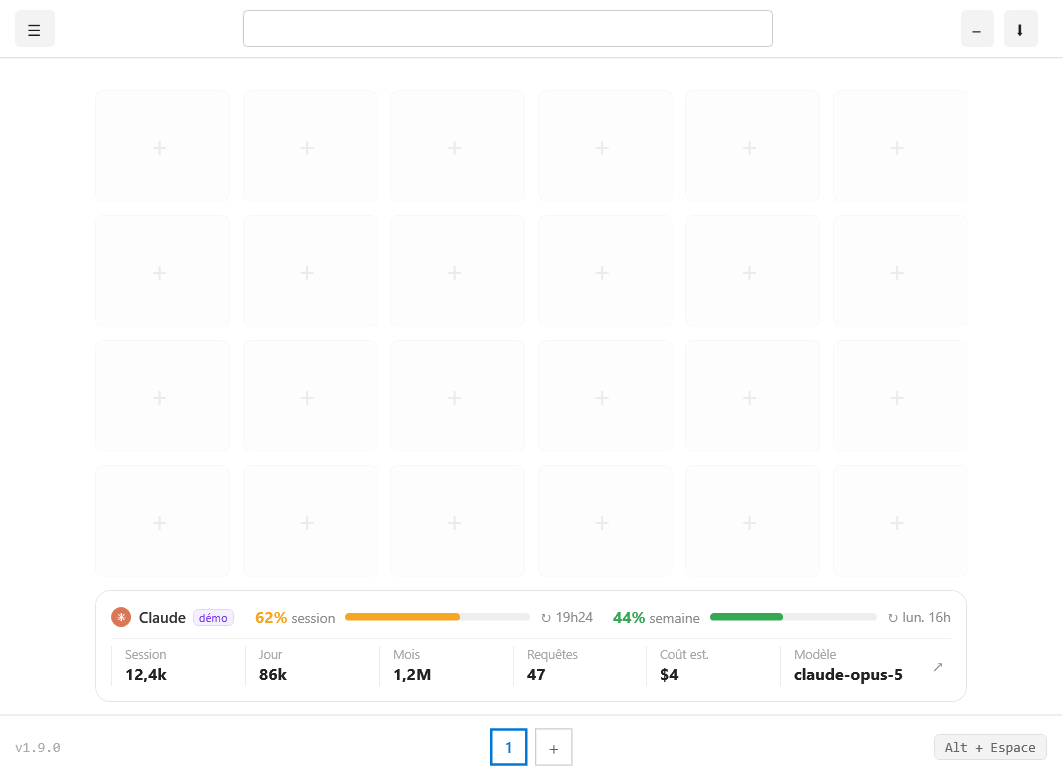
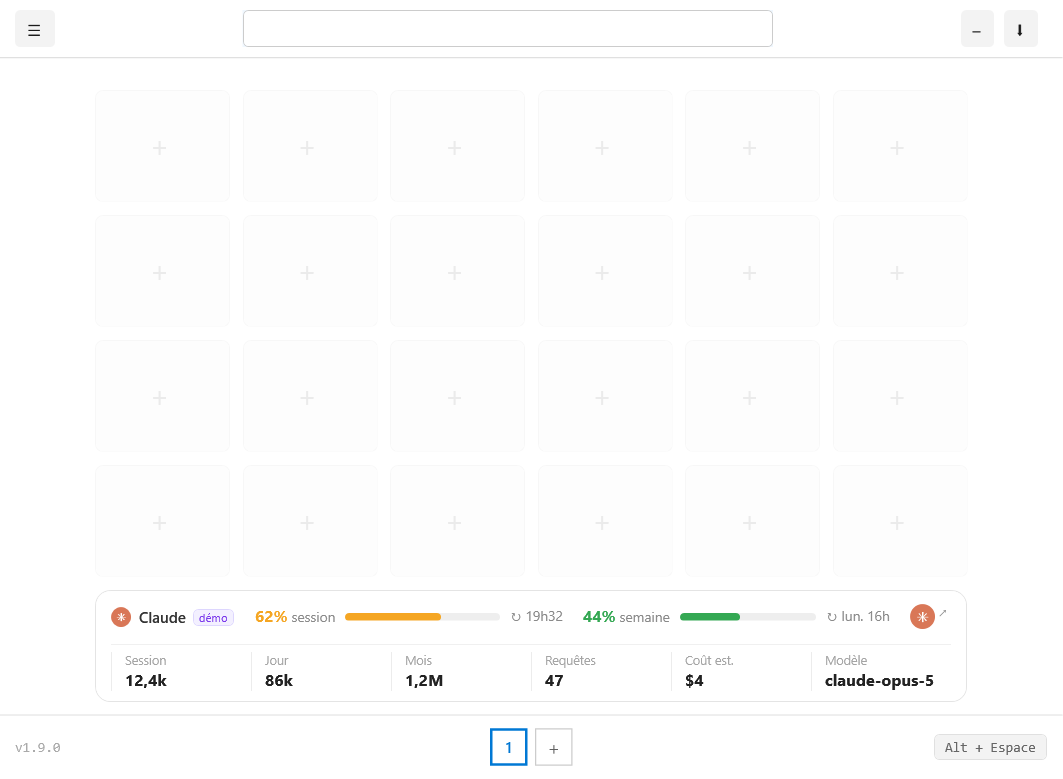
fix: lien du fournisseur sur la ligne haute, avec sa pastille
L'icone passe de la rangee de valeurs a la droite de la ligne haute, et prend
la pastille du fournisseur plutot qu'un chevron seul.

Un ↗ discret l'accompagne : sans lui, cette pastille duplique celle de gauche
et rien ne dit qu'elle ouvre quelque chose.

Claude-Session: https://claude.ai/code/session_01YT6Qea6YbvyeEBfMhfv4xK

diff --git a/Views/UsagePanel.xaml b/Views/UsagePanel.xaml
@@ -152,6 +152,7 @@
                     <ColumnDefinition Width="Auto"/>
                     <ColumnDefinition Width="*"/>
                     <ColumnDefinition Width="*"/>
+                    <ColumnDefinition Width="Auto"/>
                 </Grid.ColumnDefinitions>
 
                 <!-- Onglets, seulement s'il y a un choix à faire -->
@@ -223,18 +224,47 @@
                 <ContentControl Grid.Column="2" Content="{Binding WeekGauge}"
                                 ContentTemplate="{StaticResource GaugeTemplate}"
                                 Margin="16,0,0,0"/>
+
+                <!-- La pastille du fournisseur, à droite de la ligne haute, ouvre sa page officielle.
+                     Masquée quand le fournisseur n'a pas de page. -->
+                <Button Grid.Column="3" Click="OpenUsagePage_Click"
+                        VerticalAlignment="Center" Margin="12,0,0,0" Cursor="Hand"
+                        Visibility="{Binding HasUsageUrl, Converter={StaticResource BoolToVisibilityConverter}}"
+                        ToolTip="{Binding UsageUrl, StringFormat=Ouvrir {0}}">
+                    <Button.Template>
+                        <ControlTemplate TargetType="Button">
+                            <Border x:Name="Chrome" Background="Transparent" CornerRadius="6"
+                                    Padding="4" SnapsToDevicePixels="True" UseLayoutRounding="True">
+                                <ContentPresenter/>
+                            </Border>
+                            <ControlTemplate.Triggers>
+                                <Trigger Property="IsMouseOver" Value="True">
+                                    <Setter TargetName="Chrome" Property="Background" Value="#F0F0F0"/>
+                                </Trigger>
+                            </ControlTemplate.Triggers>
+                        </ControlTemplate>
+                    </Button.Template>
+                    <!-- Pastille du fournisseur + ↗ : sans le chevron, cette pastille duplique
+                         celle de gauche et rien ne dit qu'elle ouvre quelque chose. -->
+                    <StackPanel Orientation="Horizontal">
+                        <Border Width="20" Height="20" CornerRadius="10"
+                                Background="{Binding SoloAccent, Converter={StaticResource StringToBrushConverter}}"
+                                SnapsToDevicePixels="True" UseLayoutRounding="True">
+                            <TextBlock Text="{Binding SoloGlyph}" Foreground="White"
+                                       FontFamily="Segoe UI Symbol, Segoe UI Emoji, Segoe UI"
+                                       FontSize="11" FontWeight="Bold"
+                                       HorizontalAlignment="Center" VerticalAlignment="Center"/>
+                        </Border>
+                        <TextBlock Text="↗" FontSize="10" Foreground="#9A9A9A"
+                                   FontFamily="Segoe UI Symbol, Segoe UI"
+                                   Margin="2,0,0,0" VerticalAlignment="Top"/>
+                    </StackPanel>
+                </Button>
             </Grid>
 
-            <!-- Métriques : une colonne par mesure, filet de séparation au-dessus, et le lien vers
-                 la page officielle du fournisseur à droite. Le lien est hors de l'UniformGrid, sinon
-                 il consommerait une colonne de mesure. -->
+            <!-- Métriques : une colonne par mesure, filet de séparation au-dessus -->
             <Border BorderBrush="#F0F0F0" BorderThickness="0,1,0,0" Margin="0,8,0,0" Padding="0,6,0,0">
-              <Grid>
-                <Grid.ColumnDefinitions>
-                    <ColumnDefinition Width="*"/>
-                    <ColumnDefinition Width="Auto"/>
-                </Grid.ColumnDefinitions>
-                <ItemsControl Grid.Column="0" ItemsSource="{Binding Metrics}">
+                <ItemsControl ItemsSource="{Binding Metrics}">
                     <ItemsControl.ItemsPanel>
                         <ItemsPanelTemplate><UniformGrid Rows="1"/></ItemsPanelTemplate>
                     </ItemsControl.ItemsPanel>
@@ -253,30 +283,6 @@
                         </DataTemplate>
                     </ItemsControl.ItemTemplate>
                 </ItemsControl>
-
-                <Button Grid.Column="1" Click="OpenUsagePage_Click"
-                        VerticalAlignment="Center" Margin="8,0,0,0"
-                        Cursor="Hand" Background="Transparent" BorderThickness="0"
-                        Visibility="{Binding HasUsageUrl, Converter={StaticResource BoolToVisibilityConverter}}"
-                        ToolTip="Ouvrir la page de consommation du fournisseur">
-                    <Button.Template>
-                        <ControlTemplate TargetType="Button">
-                            <Border x:Name="Chrome" Background="Transparent" CornerRadius="6"
-                                    Padding="6,4"
-                                    SnapsToDevicePixels="True" UseLayoutRounding="True">
-                                <ContentPresenter/>
-                            </Border>
-                            <ControlTemplate.Triggers>
-                                <Trigger Property="IsMouseOver" Value="True">
-                                    <Setter TargetName="Chrome" Property="Background" Value="#F3F3F3"/>
-                                </Trigger>
-                            </ControlTemplate.Triggers>
-                        </ControlTemplate>
-                    </Button.Template>
-                    <TextBlock Text="↗" FontSize="13" Foreground="#8A8A8A"
-                               FontFamily="Segoe UI Symbol, Segoe UI"/>
-                </Button>
-              </Grid>
             </Border>
         </StackPanel>
     </Border>

diff --git a/CLAUDE.md b/CLAUDE.md
@@ -281,7 +281,7 @@ Rétrocompatible JSON : `SearchMode` absent → `ByProcessName` par défaut
 Bandeau sous la grille (`Views/UsagePanel.xaml`), 4ᵉ ligne de `QuickAccessWindow` : toolbar / grille / **bandeau** / pagination. Masqué, il est en `Collapsed` et ne prend aucune place.
 
 - **Contenu** : un onglet par fournisseur (pastille colorée + nom + badge « démo »), les deux jauges *session* et *semaine* sur une seule ligne chacune (pourcentage **consommé** en gras dans la couleur de la jauge, barre de 6 px, `↻ heure de reset`), puis six colonnes de métriques — Session, Jour, Mois, Requêtes, Coût est., Modèle. Coût décoché → cinq colonnes
-- **Lien ↗ vers la page officielle du fournisseur**, à droite de la rangée de valeurs (hors de l'`UniformGrid`, sinon il consommerait une colonne de mesure). L'URL est portée par `AiUsage.UsageUrl`, décidée dans le code du fournisseur et jamais lue depuis un fichier ; le schéma est tout de même vérifié avant `Process.Start` — avec `UseShellExecute`, une chaîne quelconque ouvrirait aussi bien un fichier ou une commande. Vide → le lien est masqué (cas du provider Démo dans l'application)
+- **Lien vers la page officielle du fournisseur** à droite de la ligne haute : sa pastille suivie d'un ↗. Sans le chevron, cette pastille duplique celle de gauche et rien ne dit qu'elle ouvre quelque chose. L'URL est portée par `AiUsage.UsageUrl`, décidée dans le code du fournisseur et jamais lue depuis un fichier ; le schéma est tout de même vérifié avant `Process.Start` — avec `UseShellExecute`, une chaîne quelconque ouvrirait aussi bien un fichier ou une commande. Vide → le lien est masqué (cas du provider Démo dans l'application)
 - **Libellés courts (« session », « semaine ») et infobulle explicite** : le libellé seul ne dit pas si le chiffre est le consommé ou le restant, l'infobulle donne les deux. Le mot « utilisée » dans le libellé coûtait la largeur des barres
 - **Un seul fournisseur visible → aucun onglet** : nom et pastille en libellé statique. Un onglet unique et cliquable suggère un choix qui n'existe pas. Le seuil est le nombre de fournisseurs visibles, pas une constante
 - **La barre suit le restant, pas le consommé** : elle doit s'accorder avec le nombre affiché juste au-dessus. Une barre remplie à 62 % sous un « 38 % » se lit comme un défaut (vu à la capture). Jauge de carburant : elle se vide quand on consomme
